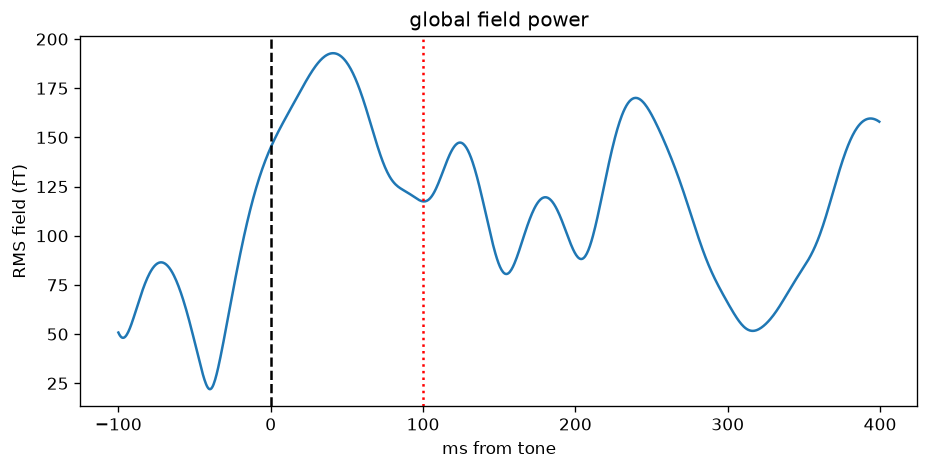
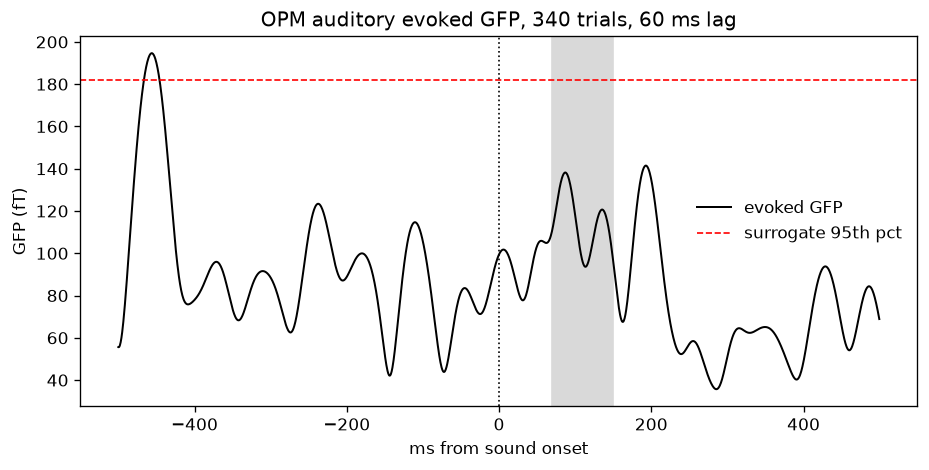
Realized a major mistake was made in auditory evoked signal, forgot account for 40 ms delay after 20 ms, so rewrote script and got rid of readme for now

diff --git a/src/evoked_response.py b/src/evoked_response.py
@@ -2,7 +2,6 @@ import os
 import numpy as np
 import scipy.io as sio
 from scipy.signal import butter, filtfilt
-from scipy import stats
 import matplotlib.pyplot as plt
 
 DATA_ROOT = r"C:\Users\Theod\Downloads\Megprojects\002"
@@ -10,10 +9,31 @@ REPO_ROOT = os.path.dirname(os.path.dirname(os.path.abspath(__file__)))
 FIG_DIR = os.path.join(REPO_ROOT, "figures")
 os.makedirs(FIG_DIR, exist_ok=True)
 
-aud_run1 = os.path.join(DATA_ROOT, "OPM", "Auditory", "run01.meg.mat")
-aud_run2 = os.path.join(DATA_ROOT, "OPM", "Auditory", "run02.meg.mat")
+RUNS = [
+    os.path.join(DATA_ROOT, "OPM", "Auditory", "run01.meg.mat"),
+    os.path.join(DATA_ROOT, "OPM", "Auditory", "run02.meg.mat"),
+]
 
-sf = 2000
+SF = 2000
+
+# OSE reference manual, OPM-MEG section: sound reached the ears 60 ms after
+# trigger onset (20 ms ear tube + 40 ms soundboard). The 20 ms figure applies
+# to the SQUID and EEG recordings only.
+ACOUSTIC_LAG_S = 0.060
+
+T_PRE, T_POST = 0.5, 0.5
+BASE_START, BASE_END = -0.40, -0.05
+M100_LO, M100_HI = 70, 150      # fixed a priori window, not chosen from the data
+PEAK_SEARCH_LO, PEAK_SEARCH_HI = 0, 300
+REJECT_PCTILE = 85
+N_SURROGATE = 200
+RNG = np.random.default_rng(0)
+
+N_PRE, N_POST = int(T_PRE * SF), int(T_POST * SF)
+TIMES = (np.arange(N_PRE + N_POST) - N_PRE) / SF * 1000
+BASE_MASK = (TIMES >= BASE_START * 1000) & (TIMES <= BASE_END * 1000)
+M100_MASK = (TIMES >= M100_LO) & (TIMES <= M100_HI)
+SEARCH_MASK = (TIMES >= PEAK_SEARCH_LO) & (TIMES <= PEAK_SEARCH_HI)
 
 
 def bandpass(x, lo, hi, sf, order=4):
@@ -21,57 +41,92 @@ def bandpass(x, lo, hi, sf, order=4):
     return filtfilt(b, a, x, axis=-1)
 
 
-def get_epochs(path):
+def load_run(path):
     d = sio.loadmat(path)
-    data = bandpass(d["bexp"], 2, 20, sf)
+    data = bandpass(d["bexp"], 2, 20, SF)
     trig = d["bexp_ext"].ravel()
     thr = (trig.max() + trig.min()) / 2
     above = trig > thr
     onsets = np.where((~above[:-1]) & (above[1:]))[0] + 1
-    onsets = onsets + int(0.020 * sf)
-    n_pre, n_post = int(0.1 * sf), int(0.4 * sf)
-    eps = []
-    for o in onsets:
-        if o - n_pre >= 0 and o + n_post < data.shape[1]:
-            seg = data[:, o - n_pre:o + n_post]
-            seg = seg - seg[:, :n_pre].mean(axis=1, keepdims=True)
-            eps.append(seg)
-    return np.array(eps)
+    return data, onsets
 
 
-ep1 = get_epochs(aud_run1)
-ep2 = get_epochs(aud_run2)
-epochs = np.concatenate([ep1, ep2], axis=0)
-print(f"run01: {len(ep1)}  run02: {len(ep2)}  total: {len(epochs)} tones")
+def cut_epochs(data, onsets):
+    onsets = onsets[(onsets - N_PRE >= 0) & (onsets + N_POST < data.shape[1])]
+    if len(onsets) == 0:
+        return np.empty((0, data.shape[0], N_PRE + N_POST))
+    idx = onsets[:, None] + np.arange(-N_PRE, N_POST)[None, :]
+    eps = data[:, idx].transpose(1, 0, 2)
+    return eps - eps[:, :, BASE_MASK].mean(axis=2, keepdims=True)
 
-ptp = np.ptp(epochs, axis=2).max(axis=1)
-good = ptp < np.percentile(ptp, 85)
-epochs = epochs[good]
-print(f"after rejection: {len(epochs)} tones")
 
-n_pre = int(0.1 * sf)
-evoked = epochs.mean(axis=0)
-times = (np.arange(evoked.shape[1]) - n_pre) / sf * 1000
+def reject(eps, pctile=REJECT_PCTILE):
+    ptp = np.ptp(eps, axis=2).max(axis=1)
+    return eps[ptp < np.percentile(ptp, pctile)]
 
-gfp = np.sqrt((evoked ** 2).mean(axis=0))
-baseline_gfp = gfp[times < 0]
-peak_gfp = gfp[(times >= 80) & (times <= 130)].max()
-sd_above = (peak_gfp - baseline_gfp.mean()) / baseline_gfp.std()
-print(f"peak GFP {peak_gfp * 1e15:.0f} fT vs baseline "
-      f"{baseline_gfp.mean() * 1e15:.0f} ± {baseline_gfp.std() * 1e15:.0f} fT")
-print(f"peak is {sd_above:.1f} SD above baseline")
 
-post_rms = np.sqrt((epochs[:, :, (times >= 80) & (times <= 130)] ** 2).mean(axis=(1, 2)))
-pre_rms = np.sqrt((epochs[:, :, times < 0] ** 2).mean(axis=(1, 2)))
-t, p = stats.ttest_rel(post_rms, pre_rms)
-print(f"RMS post vs pre: t={t:.2f}, p={p:.4f}")
+def gfp_of(eps):
+    return np.sqrt((eps.mean(axis=0) ** 2).mean(axis=0))
+
+
+runs = [load_run(p) for p in RUNS]
+
+for path, (_, onsets) in zip(RUNS, runs):
+    isi = np.diff(onsets) / SF
+    print(f"{os.path.basename(path)}: {len(onsets)} triggers, "
+          f"median ISI {np.median(isi):.2f} s (expect ~1.7)")
+
+# Side-by-side check of the two lag values. The 20 ms version is what the
+# original script used
+for lag in (0.020, 0.060):
+    shift = int(lag * SF)
+    eps = np.concatenate([reject(cut_epochs(d, o + shift)) for d, o in runs])
+    g = gfp_of(eps)
+    peak_t = TIMES[SEARCH_MASK][np.argmax(g[SEARCH_MASK])]
+    print(f"lag {lag * 1000:.0f} ms -> {len(eps)} trials, "
+          f"peak GFP {g[SEARCH_MASK].max() * 1e15:.0f} fT at {peak_t:.0f} ms")
+
+shift = int(ACOUSTIC_LAG_S * SF)
+epochs = np.concatenate([reject(cut_epochs(d, o + shift)) for d, o in runs])
+print(f"\nprimary analysis: {len(epochs)} trials after rejection")
+
+gfp = gfp_of(epochs)
+base_mean, base_sd = gfp[BASE_MASK].mean(), gfp[BASE_MASK].std()
+peak_gfp = gfp[M100_MASK].max()
+peak_time = TIMES[M100_MASK][np.argmax(gfp[M100_MASK])]
+sd_above = (peak_gfp - base_mean) / base_sd
+print(f"peak GFP {peak_gfp * 1e15:.0f} fT at {peak_time:.0f} ms vs baseline "
+      f"{base_mean * 1e15:.0f} +/- {base_sd * 1e15:.0f} fT ({sd_above:.1f} SD)")
+
+n_needed = len(epochs)
+null_peaks = np.empty(N_SURROGATE)
+for i in range(N_SURROGATE):
+    fake = []
+    for data, onsets in runs:
+        lo, hi = N_PRE, data.shape[1] - N_POST
+        rand = RNG.integers(lo, hi, size=len(onsets))
+        fake.append(reject(cut_epochs(data, rand)))
+    fake = np.concatenate(fake)[:n_needed]
+    null_peaks[i] = gfp_of(fake)[M100_MASK].max()
+
+p_emp = (np.sum(null_peaks >= peak_gfp) + 1) / (N_SURROGATE + 1)
+print(f"surrogate null: median {np.median(null_peaks) * 1e15:.0f} fT, "
+      f"95th pct {np.percentile(null_peaks, 95) * 1e15:.0f} fT, p = {p_emp:.4f}")
+
+# Split-half reliability: does the same waveform show up in independent halves?
+odd, even = gfp_of(epochs[::2]), gfp_of(epochs[1::2])
+r = np.corrcoef(odd[M100_MASK], even[M100_MASK])[0, 1]
+print(f"split-half GFP correlation in {M100_LO}-{M100_HI} ms window: r = {r:.2f}")
 
 plt.figure(figsize=(9, 4))
-plt.plot(times, gfp * 1e15)
-plt.axvline(0, color="k", ls="--")
-plt.axvline(100, color="r", ls=":")
-plt.xlabel("ms from tone")
+plt.plot(TIMES, gfp * 1e15, color="k", lw=1.2, label="evoked GFP")
+plt.axhline(np.percentile(null_peaks, 95) * 1e15, color="r", ls="--", lw=1,
+            label="surrogate 95th pct")
+plt.axvspan(M100_LO, M100_HI, color="0.85", zorder=0)
+plt.axvline(0, color="k", ls=":", lw=1)
+plt.xlabel("ms from sound onset")
 plt.ylabel("GFP (fT)")
-plt.title("global field power")
+plt.title(f"OPM auditory evoked GFP, {len(epochs)} trials, {ACOUSTIC_LAG_S * 1000:.0f} ms lag")
+plt.legend(frameon=False)
 plt.savefig(os.path.join(FIG_DIR, "opm_auditory_gfp.png"), dpi=120, bbox_inches="tight")
 plt.show()

diff --git a/README.md b/README.md
@@ -1,35 +1,1 @@
-# Auditory Evoked Response Extraction from Wearable OPM-MEG
-
-Extraction and characterization of the auditory evoked response from
-wearable optically-pumped-magnetometer (OPM) MEG recordings, using a
-public OPM/SQUID/EEG dataset.
-
-## What I did
-- Trigger-locked averaging of ~340 auditory tones across two OPM runs
-- Trigger onsets from the `bexp_ext` channel, corrected for a 20 ms acoustic lag
-- Bandpass 2–20 Hz, per-channel baseline correction, rejection of the noisiest 15% of trials
-- Statistical validation via global field power (GFP) at ~100 ms vs. pre-stimulus baseline
-
-## Key result
-The key result from this analysis is that auditory evoked response is actually present, albeit mild. After performing the averaging, the global field power peaked around 2.4 SD above the pre stimulus baseline, near 100 ms after the tone. This time locked response was obscured significantly by background power and oscillation, so it wasn't visible in the graphs clearly. 
-
-## Noise characterization
-After performing the power spectrum analysis, the data shows that it is dominated by 60 Hz line noise and harmonics. These were removed in our other calculations via a bandpass filter. The residual masking I found is low frequency, in band power at about 4-7 Hz. This overlapped directly with the evoked response and cannot be separated by frequency filtering. This is consistent with the signal extraction challenges described by others.
-
-
-## Limitations
-- SQUID comparison not possible: the `.con` files use a non-standard KIT
-  channel type that MNE-Python cannot read, and no `.mat` export is provided.
-  - A workaround is possible but not worth pursuing currently
-- Single subject
-
-## Files
-- `src/evoked_response.py`
-    - trigger extraction, epoching, averaging, GFP statistics
-- `src/power_spectrum.py`
-    - Welch PSD noise characterization
-- `figures/` 
-    - evoked butterfly plot, GFP plot, power spectra
-
-## Data
-Public OPM/SQUID/EEG dataset (subject s002). Data is not included in this repository.
+# will be updated later
